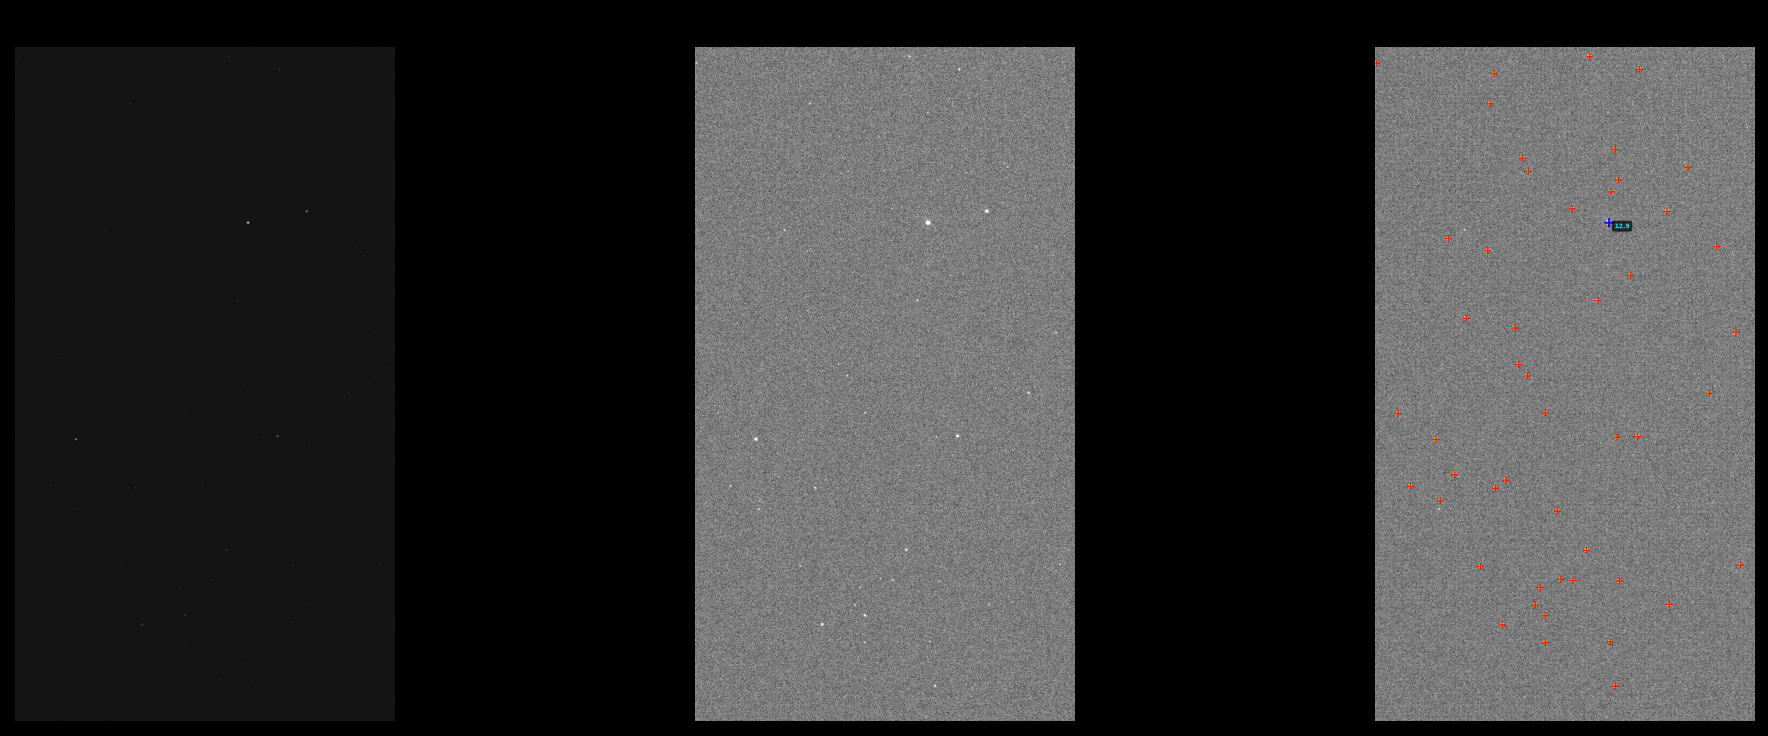
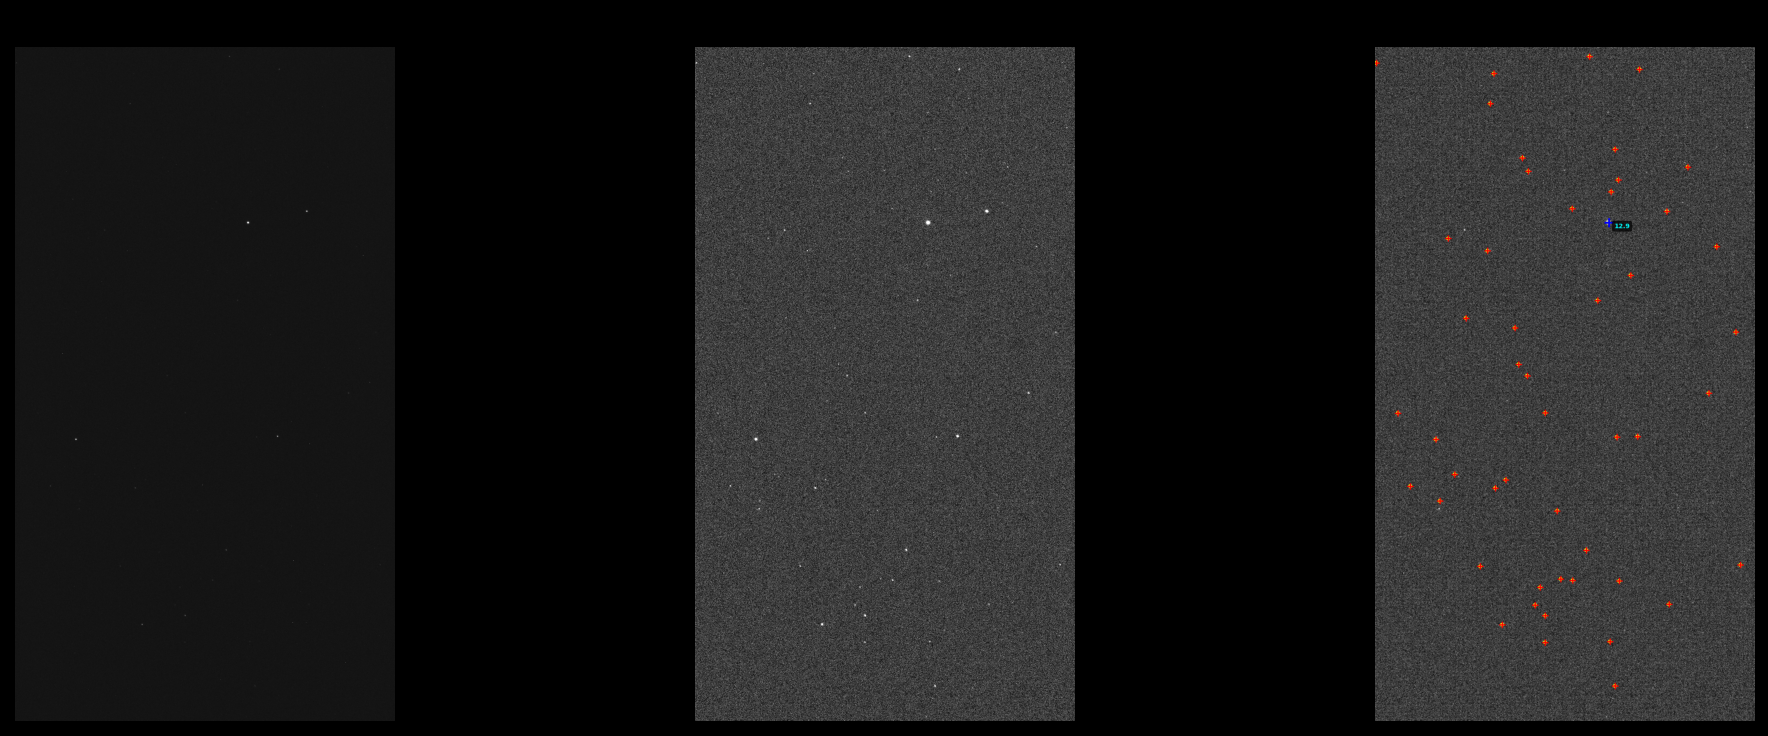
Correção Contraste

diff --git a/constants.py b/constants.py
@@ -40,9 +40,9 @@ def fov_height_arcmin():
 # ============================================================================
 
 CONFIG_VISUALIZACAO = {
-    'low_percent': 5,          # Percentil inferior (5 = mais contraste)
-    'high_percent': 90,        # Percentil superior (90 = mais contraste)
-    'use_clahe': False,        # True para usar CLAHE (contraste local)
+    'low_percent': 30,          # Percentil inferior (5 = mais contraste)
+    'high_percent': 99,        # Percentil superior (90 = mais contraste)
+    'use_clahe': True,        # True para usar CLAHE (contraste local)
     'clahe_clip_limit': 0.02,  # Limite de contraste do CLAHE
 }
 

diff --git a/README.md b/README.md
@@ -319,8 +319,6 @@ Em resumo, este projeto demonstrou a aplicação prática dos fundamentos de Pro
 
 ## Referências
 
-## Referências
-
 LANG, D.; HOGG, D. W.; MIERLE, K.; BLANTON, M.; ROWEIS, S. Astrometry.net: Blind astrometric calibration of arbitrary astronomical images. *The Astronomical Journal*, v. 139, n. 5, p. 1782-1800, 2010.
 
 ASTROPY. *Astropy: A community Python package for Astronomy*. Disponível em: https://www.astropy.org. Acesso em: 25 jun. 2026.